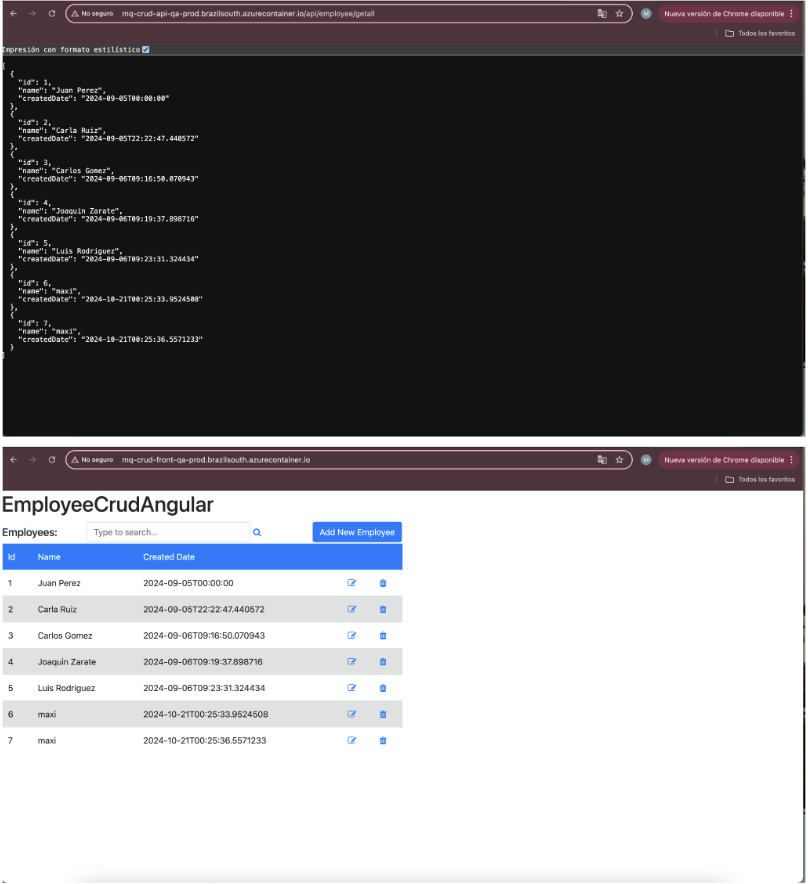
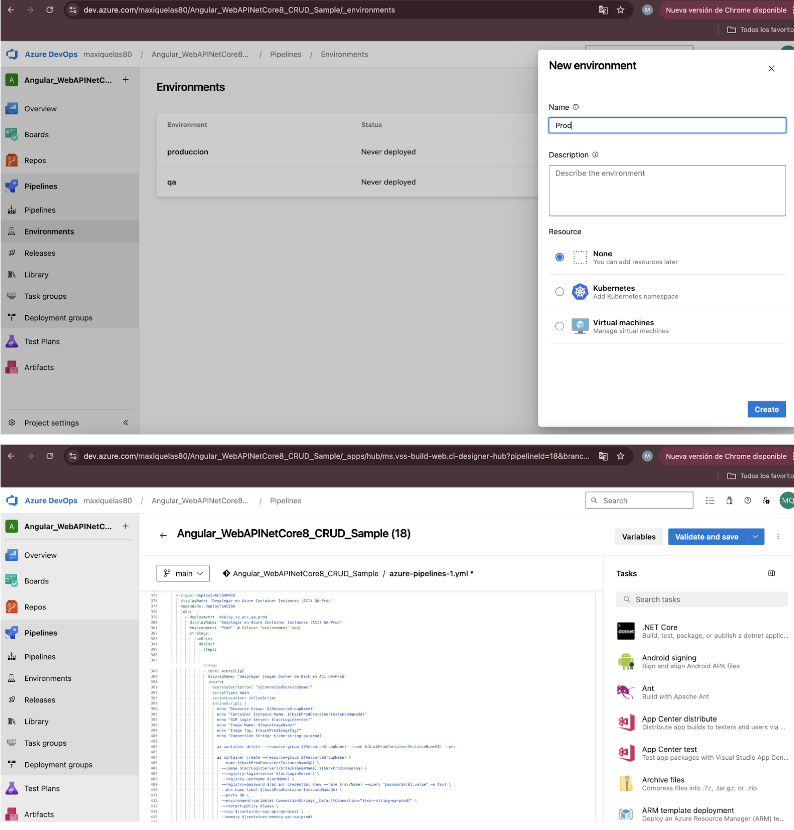
se finalizo ahora si el tp8

diff --git a/TP8/TP8.md b/TP8/TP8.md
@@ -109,3 +109,5 @@ Azure CLI instalado
 ![Descripción de la imagen](Imagen32.png)
 ![Descripción de la imagen](Imagen33.png)
 ![Descripción de la imagen](Imagen34.png)
+![Descripción de la imagen](Imagen35.png)
+![Descripción de la imagen](Imagen36.png)
